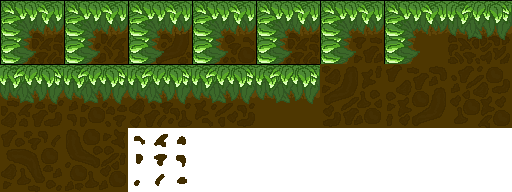
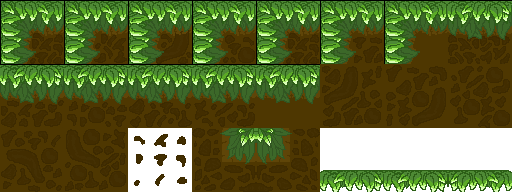
Level Design: Tiled Platforms and Corners
added inward corners to the level map, and created and added grass one-way platforms

Changed region(s): [[0.375, 0.6562, 1.0, 1.0]]

diff --git a/Assets/LevelDesign/Tiled Levels/Nature/NatureGround.tsx b/Assets/LevelDesign/Tiled Levels/Nature/NatureGround.tsx
@@ -20,4 +20,9 @@
  <tile id="16" class="Dirt_Block_4"/>
  <tile id="17" class="Dirt_Block_5"/>
  <tile id="18" class="Dirt_Decal"/>
+ <tile id="19" class="Inward_Corner_1"/>
+ <tile id="20" class="Inward_Corner_2"/>
+ <tile id="21" class="Nature_Platform_CornerL"/>
+ <tile id="22" class="Nature_Platform"/>
+ <tile id="23" class="Nature_Platform_CornerR"/>
 </tileset>
